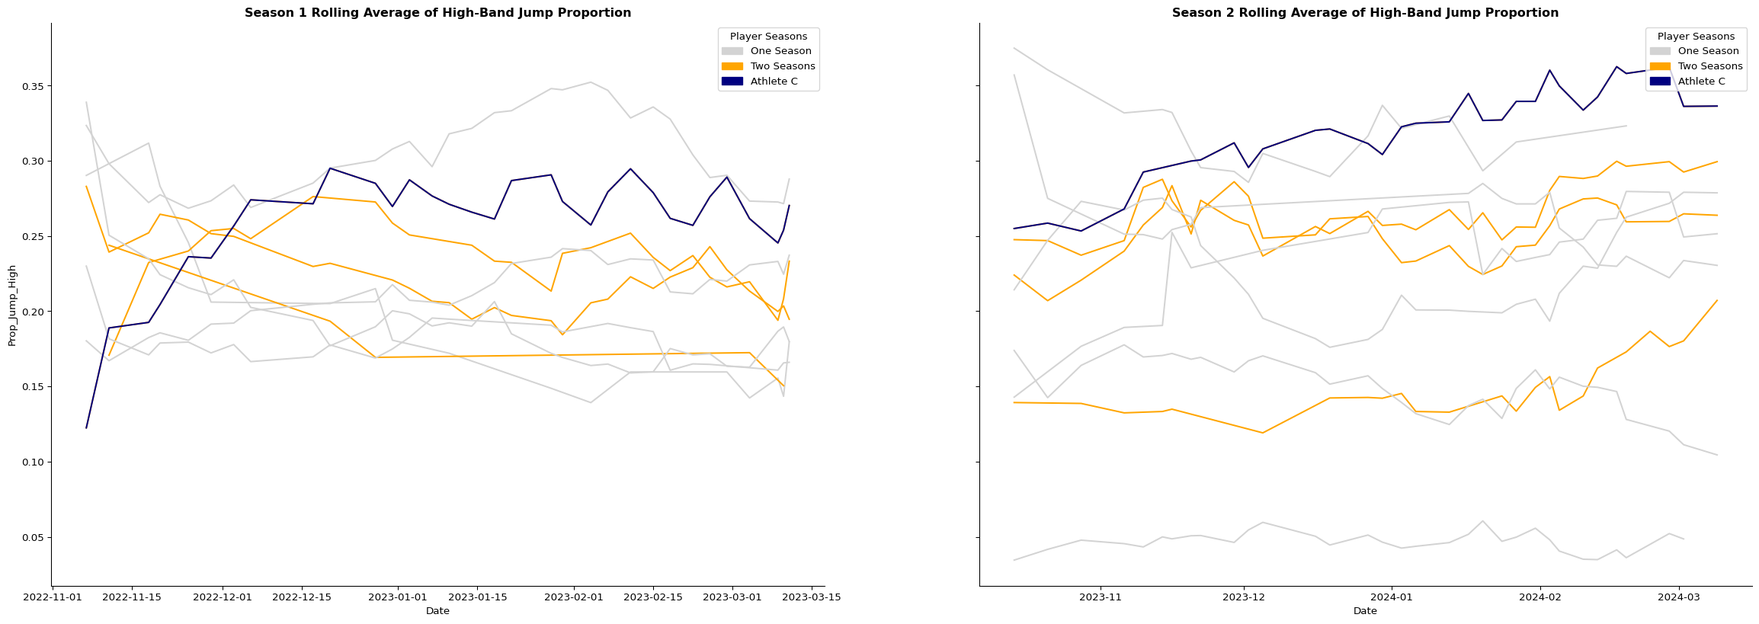
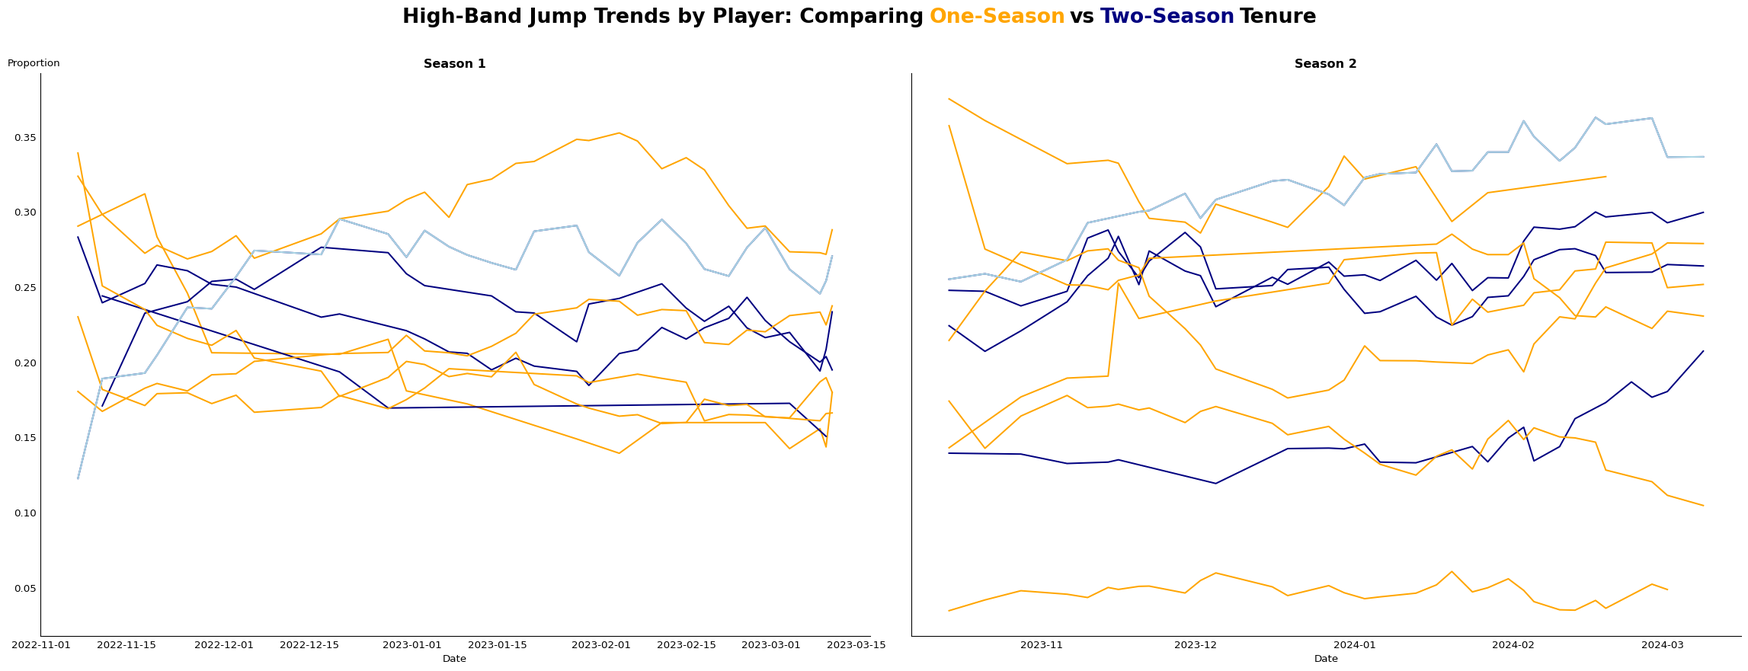
Scaffolding - Conor

diff --git a/docs/dataviz.html b/docs/dataviz.html
@@ -233,7 +233,7 @@ pre > code.sourceCode > span > a:first-child::before { text-decoration: underlin
 <h2 data-number="4.1" class="anchored" data-anchor-id="making-visualization-1"><span class="header-section-number">4.1</span> Making Visualization 1</h2>
 <section id="getting-rolling-averages-for-visualization-1" class="level3" data-number="4.1.1">
 <h3 data-number="4.1.1" class="anchored" data-anchor-id="getting-rolling-averages-for-visualization-1"><span class="header-section-number">4.1.1</span> Getting Rolling Averages for Visualization 1</h3>
-<div id="cde6a8c0" class="cell" data-execution_count="2">
+<div id="3c81bdf6" class="cell" data-execution_count="2">
 <div class="sourceCode cell-code" id="cb1"><pre class="sourceCode python code-with-copy"><code class="sourceCode python"><span id="cb1-1"><a href="#cb1-1" aria-hidden="true" tabindex="-1"></a><span class="co"># This code chunk retrieves the n-game (7-game) rolling average of proportion of low, med, and high band jumps</span></span>
 <span id="cb1-2"><a href="#cb1-2" aria-hidden="true" tabindex="-1"></a></span>
 <span id="cb1-3"><a href="#cb1-3" aria-hidden="true" tabindex="-1"></a><span class="co"># Empty list to hold rolling_averages data</span></span>
@@ -270,7 +270,7 @@ pre > code.sourceCode > span > a:first-child::before { text-decoration: underlin
 </section>
 <section id="creating-visualization-1-color-palette" class="level3" data-number="4.1.2">
 <h3 data-number="4.1.2" class="anchored" data-anchor-id="creating-visualization-1-color-palette"><span class="header-section-number">4.1.2</span> Creating Visualization 1 Color Palette</h3>
-<div id="005dfa91" class="cell" data-execution_count="3">
+<div id="8a6c58d2" class="cell" data-execution_count="3">
 <div class="sourceCode cell-code" id="cb2"><pre class="sourceCode python code-with-copy"><code class="sourceCode python"><span id="cb2-1"><a href="#cb2-1" aria-hidden="true" tabindex="-1"></a><span class="co"># Getting the number of seasons per player, and getting a list of players who are in both seasons</span></span>
 <span id="cb2-2"><a href="#cb2-2" aria-hidden="true" tabindex="-1"></a>players_seasons <span class="op">=</span> rolling_df.groupby(<span class="st">'About'</span>)[<span class="st">'Season'</span>].nunique()</span>
 <span id="cb2-3"><a href="#cb2-3" aria-hidden="true" tabindex="-1"></a>players_in_both <span class="op">=</span> players_seasons[players_seasons <span class="op">&gt;</span> <span class="dv">1</span>].index.tolist()</span>
@@ -279,12 +279,12 @@ pre > code.sourceCode > span > a:first-child::before { text-decoration: underlin
 <span id="cb2-6"><a href="#cb2-6" aria-hidden="true" tabindex="-1"></a>players <span class="op">=</span> rolling_df[<span class="st">'About'</span>].unique()</span>
 <span id="cb2-7"><a href="#cb2-7" aria-hidden="true" tabindex="-1"></a></span>
 <span id="cb2-8"><a href="#cb2-8" aria-hidden="true" tabindex="-1"></a><span class="co"># Making a palette where players in 1 season are orange, and players in 2 seasons are navy</span></span>
-<span id="cb2-9"><a href="#cb2-9" aria-hidden="true" tabindex="-1"></a>palette <span class="op">=</span> {player : (<span class="st">'orange'</span> <span class="cf">if</span> player <span class="kw">in</span> players_in_both <span class="cf">else</span> <span class="st">'lightgray'</span>) <span class="cf">for</span> player <span class="kw">in</span> players}</span></code><button title="Copy to Clipboard" class="code-copy-button"><i class="bi"></i></button></pre></div>
+<span id="cb2-9"><a href="#cb2-9" aria-hidden="true" tabindex="-1"></a>palette <span class="op">=</span> {player : (<span class="st">'navy'</span> <span class="cf">if</span> player <span class="kw">in</span> players_in_both <span class="cf">else</span> <span class="st">'orange'</span>) <span class="cf">for</span> player <span class="kw">in</span> players}</span></code><button title="Copy to Clipboard" class="code-copy-button"><i class="bi"></i></button></pre></div>
 </div>
 </section>
 <section id="generating-and-saving-visualization-1" class="level3" data-number="4.1.3">
 <h3 data-number="4.1.3" class="anchored" data-anchor-id="generating-and-saving-visualization-1"><span class="header-section-number">4.1.3</span> Generating and Saving Visualization 1</h3>
-<div id="8c4479e4" class="cell" data-execution_count="4">
+<div id="e35b22dd" class="cell" data-execution_count="4">
 <div class="sourceCode cell-code" id="cb3"><pre class="sourceCode python code-with-copy"><code class="sourceCode python"><span id="cb3-1"><a href="#cb3-1" aria-hidden="true" tabindex="-1"></a><span class="co"># Creating Figure and Flattening Axes</span></span>
 <span id="cb3-2"><a href="#cb3-2" aria-hidden="true" tabindex="-1"></a>fig, axs <span class="op">=</span> plt.subplots(<span class="dv">1</span>, <span class="dv">2</span>, figsize <span class="op">=</span> (<span class="dv">30</span>, <span class="dv">10</span>), sharey <span class="op">=</span> <span class="va">True</span>)</span>
 <span id="cb3-3"><a href="#cb3-3" aria-hidden="true" tabindex="-1"></a>axs <span class="op">=</span> axs.flatten()</span>
@@ -293,24 +293,28 @@ pre > code.sourceCode > span > a:first-child::before { text-decoration: underlin
 <span id="cb3-6"><a href="#cb3-6" aria-hidden="true" tabindex="-1"></a><span class="cf">for</span> ax, season <span class="kw">in</span> <span class="bu">zip</span>(axs, [<span class="dv">1</span>, <span class="dv">2</span>]):</span>
 <span id="cb3-7"><a href="#cb3-7" aria-hidden="true" tabindex="-1"></a>    <span class="co"># Making plot of proportion of jumps in high band by player, for each season</span></span>
 <span id="cb3-8"><a href="#cb3-8" aria-hidden="true" tabindex="-1"></a>    plot <span class="op">=</span> sns.lineplot(data <span class="op">=</span> rolling_df[rolling_df[<span class="st">"Season"</span>] <span class="op">==</span> season], x <span class="op">=</span> <span class="st">'Date'</span>, y <span class="op">=</span> <span class="st">"Prop_Jump_High"</span>, hue <span class="op">=</span> <span class="st">"About"</span>, palette <span class="op">=</span> palette, ax <span class="op">=</span> ax)</span>
-<span id="cb3-9"><a href="#cb3-9" aria-hidden="true" tabindex="-1"></a>    plot_c <span class="op">=</span> sns.lineplot(data <span class="op">=</span> rolling_df[(rolling_df[<span class="st">"Season"</span>] <span class="op">==</span> season) <span class="op">&amp;</span> (rolling_df[<span class="st">"About"</span>] <span class="op">==</span> <span class="st">"Athlete C"</span>)], x <span class="op">=</span> <span class="st">"Date"</span>, y <span class="op">=</span> <span class="st">"Prop_Jump_High"</span>, color <span class="op">=</span> <span class="st">'navy'</span>, ax <span class="op">=</span> ax)</span>
-<span id="cb3-10"><a href="#cb3-10" aria-hidden="true" tabindex="-1"></a>    ax.set_title(<span class="ss">f"Season </span><span class="sc">{</span>season<span class="sc">}</span><span class="ss"> Rolling Average of High-Band Jump Proportion"</span>, weight <span class="op">=</span> <span class="st">'bold'</span>)</span>
-<span id="cb3-11"><a href="#cb3-11" aria-hidden="true" tabindex="-1"></a>    sns.despine(top <span class="op">=</span> <span class="va">True</span>, right <span class="op">=</span> <span class="va">True</span>, ax <span class="op">=</span> ax)</span>
-<span id="cb3-12"><a href="#cb3-12" aria-hidden="true" tabindex="-1"></a></span>
-<span id="cb3-13"><a href="#cb3-13" aria-hidden="true" tabindex="-1"></a>one_season_patch <span class="op">=</span> mpatches.Patch(color <span class="op">=</span> <span class="st">'lightgray'</span>, label <span class="op">=</span> <span class="st">'One Season'</span>)</span>
-<span id="cb3-14"><a href="#cb3-14" aria-hidden="true" tabindex="-1"></a>two_season_patch <span class="op">=</span> mpatches.Patch(color <span class="op">=</span> <span class="st">'orange'</span>, label <span class="op">=</span> <span class="st">'Two Seasons'</span>)</span>
-<span id="cb3-15"><a href="#cb3-15" aria-hidden="true" tabindex="-1"></a>athlete_c_patch <span class="op">=</span> mpatches.Patch(color <span class="op">=</span> <span class="st">"navy"</span>, label <span class="op">=</span> <span class="st">"Athlete C"</span>)</span>
+<span id="cb3-9"><a href="#cb3-9" aria-hidden="true" tabindex="-1"></a>    plot_c <span class="op">=</span> sns.lineplot(data <span class="op">=</span> rolling_df[(rolling_df[<span class="st">"Season"</span>] <span class="op">==</span> season) <span class="op">&amp;</span> (rolling_df[<span class="st">"About"</span>] <span class="op">==</span> <span class="st">"Athlete C"</span>)], x <span class="op">=</span> <span class="st">"Date"</span>, y <span class="op">=</span> <span class="st">"Prop_Jump_High"</span>, color <span class="op">=</span> <span class="st">'lightblue'</span>, ax <span class="op">=</span> ax)</span>
+<span id="cb3-10"><a href="#cb3-10" aria-hidden="true" tabindex="-1"></a>    ax.set_title(<span class="ss">f"Season </span><span class="sc">{</span>season<span class="sc">}</span><span class="ss">"</span>, weight <span class="op">=</span> <span class="st">'bold'</span>)</span>
+<span id="cb3-11"><a href="#cb3-11" aria-hidden="true" tabindex="-1"></a>    ax.set_ylabel(<span class="st">''</span>)<span class="co"># Proportion of High-Band Jumps</span></span>
+<span id="cb3-12"><a href="#cb3-12" aria-hidden="true" tabindex="-1"></a>    ax.legend_.remove()</span>
+<span id="cb3-13"><a href="#cb3-13" aria-hidden="true" tabindex="-1"></a>    sns.despine(ax<span class="op">=</span>ax, top<span class="op">=</span><span class="va">True</span>, right<span class="op">=</span><span class="va">True</span>, left<span class="op">=</span><span class="va">False</span>, bottom<span class="op">=</span><span class="va">False</span>)</span>
+<span id="cb3-14"><a href="#cb3-14" aria-hidden="true" tabindex="-1"></a>    ax.tick_params(axis<span class="op">=</span><span class="st">'both'</span>, which<span class="op">=</span><span class="st">'both'</span>, length<span class="op">=</span><span class="dv">0</span>, width<span class="op">=</span><span class="dv">0</span>)</span>
+<span id="cb3-15"><a href="#cb3-15" aria-hidden="true" tabindex="-1"></a></span>
 <span id="cb3-16"><a href="#cb3-16" aria-hidden="true" tabindex="-1"></a></span>
-<span id="cb3-17"><a href="#cb3-17" aria-hidden="true" tabindex="-1"></a><span class="cf">for</span> ax <span class="kw">in</span> axs:</span>
-<span id="cb3-18"><a href="#cb3-18" aria-hidden="true" tabindex="-1"></a>    ax.legend(handles <span class="op">=</span> [one_season_patch, two_season_patch, athlete_c_patch], title <span class="op">=</span> <span class="st">'Player Seasons'</span>, loc <span class="op">=</span> <span class="st">'upper right'</span>)</span>
-<span id="cb3-19"><a href="#cb3-19" aria-hidden="true" tabindex="-1"></a></span>
-<span id="cb3-20"><a href="#cb3-20" aria-hidden="true" tabindex="-1"></a><span class="co"># Showing plots</span></span>
-<span id="cb3-21"><a href="#cb3-21" aria-hidden="true" tabindex="-1"></a>plt.savefig(<span class="st">"./images/viz_1.png"</span>, bbox_inches<span class="op">=</span><span class="st">'tight'</span>)</span>
-<span id="cb3-22"><a href="#cb3-22" aria-hidden="true" tabindex="-1"></a>plt.show()</span></code><button title="Copy to Clipboard" class="code-copy-button"><i class="bi"></i></button></pre></div>
+<span id="cb3-17"><a href="#cb3-17" aria-hidden="true" tabindex="-1"></a><span class="co"># Showing plots</span></span>
+<span id="cb3-18"><a href="#cb3-18" aria-hidden="true" tabindex="-1"></a>fig.text(<span class="fl">0.29</span>, <span class="fl">0.95</span>, <span class="st">'High-Band Jump Trends by Player: Comparing'</span>, fontsize<span class="op">=</span><span class="dv">20</span>, rotation<span class="op">=</span><span class="st">'horizontal'</span>, weight<span class="op">=</span><span class="st">'bold'</span>)</span>
+<span id="cb3-19"><a href="#cb3-19" aria-hidden="true" tabindex="-1"></a>fig.text(<span class="fl">0.53</span>, <span class="fl">0.95</span>, <span class="st">'One-Season'</span>, fontsize<span class="op">=</span><span class="dv">20</span>, rotation<span class="op">=</span><span class="st">'horizontal'</span>, weight<span class="op">=</span><span class="st">'bold'</span>, color<span class="op">=</span><span class="st">'orange'</span>)</span>
+<span id="cb3-20"><a href="#cb3-20" aria-hidden="true" tabindex="-1"></a>fig.text(<span class="fl">0.594</span>, <span class="fl">0.95</span>, <span class="st">'vs'</span>, fontsize<span class="op">=</span><span class="dv">20</span>, rotation<span class="op">=</span><span class="st">'horizontal'</span>, weight<span class="op">=</span><span class="st">'bold'</span>)</span>
+<span id="cb3-21"><a href="#cb3-21" aria-hidden="true" tabindex="-1"></a>fig.text(<span class="fl">0.608</span>, <span class="fl">0.95</span>, <span class="st">'Two-Season'</span>, fontsize<span class="op">=</span><span class="dv">20</span>, rotation<span class="op">=</span><span class="st">'horizontal'</span>, weight<span class="op">=</span><span class="st">'bold'</span>, color<span class="op">=</span><span class="st">'navy'</span>)</span>
+<span id="cb3-22"><a href="#cb3-22" aria-hidden="true" tabindex="-1"></a>fig.text(<span class="fl">0.6715</span>, <span class="fl">0.95</span>, <span class="st">'Tenure'</span>, fontsize<span class="op">=</span><span class="dv">20</span>, rotation<span class="op">=</span><span class="st">'horizontal'</span>, weight<span class="op">=</span><span class="st">'bold'</span>)</span>
+<span id="cb3-23"><a href="#cb3-23" aria-hidden="true" tabindex="-1"></a>fig.text(<span class="fl">0.11</span>, <span class="fl">0.89</span>, <span class="st">'Proportion'</span>, fontsize<span class="op">=</span><span class="dv">10</span>, rotation<span class="op">=</span><span class="st">'horizontal'</span>, weight<span class="op">=</span><span class="st">'normal'</span>)</span>
+<span id="cb3-24"><a href="#cb3-24" aria-hidden="true" tabindex="-1"></a>plt.subplots_adjust(wspace<span class="op">=</span><span class="fl">0.05</span>)  <span class="co"># Decrease this value to move subplots closer</span></span>
+<span id="cb3-25"><a href="#cb3-25" aria-hidden="true" tabindex="-1"></a>plt.savefig(<span class="st">"./images/viz_1.png"</span>, bbox_inches<span class="op">=</span><span class="st">'tight'</span>)</span>
+<span id="cb3-26"><a href="#cb3-26" aria-hidden="true" tabindex="-1"></a>plt.show()</span></code><button title="Copy to Clipboard" class="code-copy-button"><i class="bi"></i></button></pre></div>
 <div class="cell-output cell-output-display">
 <div>
 <figure class="figure">
-<p><img src="dataviz_files/figure-html/cell-5-output-1.png" width="2309" height="819" class="figure-img"></p>
+<p><img src="dataviz_files/figure-html/cell-5-output-1.png" width="2294" height="882" class="figure-img"></p>
 </figure>
 </div>
 </div>
@@ -321,7 +325,7 @@ pre > code.sourceCode > span > a:first-child::before { text-decoration: underlin
 <h2 data-number="4.2" class="anchored" data-anchor-id="making-visualization-2"><span class="header-section-number">4.2</span> Making Visualization 2</h2>
 <section id="creating-adjusted_day-variable" class="level3" data-number="4.2.1">
 <h3 data-number="4.2.1" class="anchored" data-anchor-id="creating-adjusted_day-variable"><span class="header-section-number">4.2.1</span> Creating “Adjusted_Day” Variable</h3>
-<div id="2eee2d6e" class="cell" data-execution_count="5">
+<div id="a19fff46" class="cell" data-execution_count="5">
 <div class="sourceCode cell-code" id="cb4"><pre class="sourceCode python code-with-copy"><code class="sourceCode python"><span id="cb4-1"><a href="#cb4-1" aria-hidden="true" tabindex="-1"></a><span class="co"># Making a new variable which tells whether or not the player is in both seasons or just one</span></span>
 <span id="cb4-2"><a href="#cb4-2" aria-hidden="true" tabindex="-1"></a>rolling_df[<span class="st">'Player_Group'</span>] <span class="op">=</span> rolling_df[<span class="st">'About'</span>].<span class="bu">apply</span>(<span class="kw">lambda</span> x: <span class="st">'both_seasons'</span> <span class="cf">if</span> x <span class="kw">in</span> players_in_both <span class="cf">else</span> <span class="st">'one_season'</span>)</span>
 <span id="cb4-3"><a href="#cb4-3" aria-hidden="true" tabindex="-1"></a></span>
@@ -348,7 +352,7 @@ pre > code.sourceCode > span > a:first-child::before { text-decoration: underlin
 </section>
 <section id="generating-and-saving-visualization-2" class="level3" data-number="4.2.2">
 <h3 data-number="4.2.2" class="anchored" data-anchor-id="generating-and-saving-visualization-2"><span class="header-section-number">4.2.2</span> Generating and Saving Visualization 2</h3>
-<div id="503adaa1" class="cell" data-execution_count="6">
+<div id="32702f44" class="cell" data-execution_count="6">
 <div class="sourceCode cell-code" id="cb5"><pre class="sourceCode python code-with-copy"><code class="sourceCode python"><span id="cb5-1"><a href="#cb5-1" aria-hidden="true" tabindex="-1"></a><span class="co"># Filter for Athlete C</span></span>
 <span id="cb5-2"><a href="#cb5-2" aria-hidden="true" tabindex="-1"></a>Athlete_C <span class="op">=</span> rolling_df[rolling_df[<span class="st">"About"</span>] <span class="op">==</span> <span class="st">"Athlete C"</span>]</span>
 <span id="cb5-3"><a href="#cb5-3" aria-hidden="true" tabindex="-1"></a></span>
@@ -395,14 +399,14 @@ pre > code.sourceCode > span > a:first-child::before { text-decoration: underlin
 <h2 data-number="4.3" class="anchored" data-anchor-id="making-visualization-3"><span class="header-section-number">4.3</span> Making Visualization 3</h2>
 <section id="getting-daily-averages" class="level3" data-number="4.3.1">
 <h3 data-number="4.3.1" class="anchored" data-anchor-id="getting-daily-averages"><span class="header-section-number">4.3.1</span> Getting Daily Averages</h3>
-<div id="590c2fdd" class="cell" data-execution_count="7">
+<div id="0a7a0e62" class="cell" data-execution_count="7">
 <div class="sourceCode cell-code" id="cb6"><pre class="sourceCode python code-with-copy"><code class="sourceCode python"><span id="cb6-1"><a href="#cb6-1" aria-hidden="true" tabindex="-1"></a><span class="co"># Grouping by day of the season and whether or not the player was in both seasons, then taking the mean of the prop_jump_high</span></span>
 <span id="cb6-2"><a href="#cb6-2" aria-hidden="true" tabindex="-1"></a>daily_means <span class="op">=</span> rolling_df.groupby([<span class="st">'Adjusted_Day'</span>, <span class="st">'Player_Group'</span>])[<span class="st">'Prop_Jump_High'</span>].mean().reset_index()</span></code><button title="Copy to Clipboard" class="code-copy-button"><i class="bi"></i></button></pre></div>
 </div>
 </section>
 <section id="getting-regression-lines-for-1-and-2-season-players" class="level3" data-number="4.3.2">
 <h3 data-number="4.3.2" class="anchored" data-anchor-id="getting-regression-lines-for-1-and-2-season-players"><span class="header-section-number">4.3.2</span> Getting Regression Lines for 1 and 2 Season Players</h3>
-<div id="edeb7962" class="cell" data-execution_count="8">
+<div id="728273ef" class="cell" data-execution_count="8">
 <div class="sourceCode cell-code" id="cb7"><pre class="sourceCode python code-with-copy"><code class="sourceCode python"><span id="cb7-1"><a href="#cb7-1" aria-hidden="true" tabindex="-1"></a><span class="co"># Making a dataframe to hold the required linear regression values</span></span>
 <span id="cb7-2"><a href="#cb7-2" aria-hidden="true" tabindex="-1"></a>linreg_df <span class="op">=</span> pd.DataFrame(columns<span class="op">=</span>[<span class="st">"Player_Group"</span>, <span class="st">"Slope"</span>, <span class="st">"Intercept"</span>, <span class="st">"R-value"</span>])</span>
 <span id="cb7-3"><a href="#cb7-3" aria-hidden="true" tabindex="-1"></a></span>
@@ -457,7 +461,7 @@ pre > code.sourceCode > span > a:first-child::before { text-decoration: underlin
 </section>
 <section id="generating-and-saving-visualization-3" class="level3" data-number="4.3.3">
 <h3 data-number="4.3.3" class="anchored" data-anchor-id="generating-and-saving-visualization-3"><span class="header-section-number">4.3.3</span> Generating and Saving Visualization 3</h3>
-<div id="437ac205" class="cell" data-execution_count="9">
+<div id="44246e3c" class="cell" data-execution_count="9">
 <div class="sourceCode cell-code" id="cb8"><pre class="sourceCode python code-with-copy"><code class="sourceCode python"><span id="cb8-1"><a href="#cb8-1" aria-hidden="true" tabindex="-1"></a><span class="co"># Making palette for below plot</span></span>
 <span id="cb8-2"><a href="#cb8-2" aria-hidden="true" tabindex="-1"></a>palette <span class="op">=</span> {</span>
 <span id="cb8-3"><a href="#cb8-3" aria-hidden="true" tabindex="-1"></a>    <span class="st">"both_seasons"</span> : <span class="st">"navy"</span>,</span>

diff --git a/docs/eda.html b/docs/eda.html
@@ -218,7 +218,7 @@ pre > code.sourceCode > span > a:first-child::before { text-decoration: underlin
 
 <section id="descriptive-statistics" class="level2" data-number="3.1">
 <h2 data-number="3.1" class="anchored" data-anchor-id="descriptive-statistics"><span class="header-section-number">3.1</span> Descriptive Statistics</h2>
-<div id="94973e1e" class="cell" data-execution_count="2">
+<div id="3d9c58d6" class="cell" data-execution_count="2">
 <div class="sourceCode cell-code" id="cb1"><pre class="sourceCode python code-with-copy"><code class="sourceCode python"><span id="cb1-1"><a href="#cb1-1" aria-hidden="true" tabindex="-1"></a>data.iloc[:, :<span class="op">-</span><span class="dv">1</span>].describe()</span></code><button title="Copy to Clipboard" class="code-copy-button"><i class="bi"></i></button></pre></div>
 <div class="cell-output cell-output-display" data-execution_count="2">
 <div>
@@ -327,7 +327,7 @@ pre > code.sourceCode > span > a:first-child::before { text-decoration: underlin
 </section>
 <section id="distributions" class="level2" data-number="3.2">
 <h2 data-number="3.2" class="anchored" data-anchor-id="distributions"><span class="header-section-number">3.2</span> Distributions</h2>
-<div id="2635ae98" class="cell" data-execution_count="3">
+<div id="0a6fc9ff" class="cell" data-execution_count="3">
 <div class="sourceCode cell-code" id="cb2"><pre class="sourceCode python code-with-copy"><code class="sourceCode python"><span id="cb2-1"><a href="#cb2-1" aria-hidden="true" tabindex="-1"></a><span class="co"># Initializing Figure</span></span>
 <span id="cb2-2"><a href="#cb2-2" aria-hidden="true" tabindex="-1"></a>plt.figure(figsize <span class="op">=</span> (<span class="dv">10</span>, <span class="dv">6</span>))</span>
 <span id="cb2-3"><a href="#cb2-3" aria-hidden="true" tabindex="-1"></a></span>
@@ -349,7 +349,7 @@ pre > code.sourceCode > span > a:first-child::before { text-decoration: underlin
 </div>
 </div>
 </div>
-<div id="de139da6" class="cell" data-execution_count="4">
+<div id="5f186496" class="cell" data-execution_count="4">
 <div class="sourceCode cell-code" id="cb3"><pre class="sourceCode python code-with-copy"><code class="sourceCode python"><span id="cb3-1"><a href="#cb3-1" aria-hidden="true" tabindex="-1"></a><span class="co"># Initializing Figure</span></span>
 <span id="cb3-2"><a href="#cb3-2" aria-hidden="true" tabindex="-1"></a>plt.figure(figsize <span class="op">=</span> (<span class="dv">10</span>, <span class="dv">6</span>))</span>
 <span id="cb3-3"><a href="#cb3-3" aria-hidden="true" tabindex="-1"></a></span>
@@ -371,7 +371,7 @@ pre > code.sourceCode > span > a:first-child::before { text-decoration: underlin
 </div>
 </div>
 </div>
-<div id="e86a3b02" class="cell" data-execution_count="5">
+<div id="71d1f6a7" class="cell" data-execution_count="5">
 <div class="sourceCode cell-code" id="cb4"><pre class="sourceCode python code-with-copy"><code class="sourceCode python"><span id="cb4-1"><a href="#cb4-1" aria-hidden="true" tabindex="-1"></a><span class="co"># Initializing Figure</span></span>
 <span id="cb4-2"><a href="#cb4-2" aria-hidden="true" tabindex="-1"></a>plt.figure(figsize <span class="op">=</span> (<span class="dv">10</span>, <span class="dv">6</span>))</span>
 <span id="cb4-3"><a href="#cb4-3" aria-hidden="true" tabindex="-1"></a></span>
@@ -393,7 +393,7 @@ pre > code.sourceCode > span > a:first-child::before { text-decoration: underlin
 </div>
 </div>
 </div>
-<div id="7dd5e1f0" class="cell" data-execution_count="6">
+<div id="8c3c19c2" class="cell" data-execution_count="6">
 <div class="sourceCode cell-code" id="cb5"><pre class="sourceCode python code-with-copy"><code class="sourceCode python"><span id="cb5-1"><a href="#cb5-1" aria-hidden="true" tabindex="-1"></a><span class="co"># Initializing Figure</span></span>
 <span id="cb5-2"><a href="#cb5-2" aria-hidden="true" tabindex="-1"></a>plt.figure(figsize <span class="op">=</span> (<span class="dv">10</span>, <span class="dv">6</span>))</span>
 <span id="cb5-3"><a href="#cb5-3" aria-hidden="true" tabindex="-1"></a></span>
@@ -420,7 +420,7 @@ pre > code.sourceCode > span > a:first-child::before { text-decoration: underlin
 </section>
 <section id="change-over-time" class="level2" data-number="3.3">
 <h2 data-number="3.3" class="anchored" data-anchor-id="change-over-time"><span class="header-section-number">3.3</span> Change Over Time</h2>
-<div id="55711fd2" class="cell" data-execution_count="7">
+<div id="e8d80c8b" class="cell" data-execution_count="7">
 <div class="sourceCode cell-code" id="cb6"><pre class="sourceCode python code-with-copy"><code class="sourceCode python"><span id="cb6-1"><a href="#cb6-1" aria-hidden="true" tabindex="-1"></a><span class="co"># Melting dfs</span></span>
 <span id="cb6-2"><a href="#cb6-2" aria-hidden="true" tabindex="-1"></a>s1 <span class="op">=</span> data[data[<span class="st">"Season"</span>] <span class="op">==</span> <span class="dv">1</span>]</span>
 <span id="cb6-3"><a href="#cb6-3" aria-hidden="true" tabindex="-1"></a>s1_melted <span class="op">=</span> s1.melt(id_vars <span class="op">=</span> <span class="st">'Date'</span>, value_vars <span class="op">=</span> [<span class="st">'Prop_Jump_Low'</span>, <span class="st">'Prop_Jump_Med'</span>, <span class="st">'Prop_Jump_High'</span>], var_name <span class="op">=</span> <span class="st">'Jump Band'</span>, value_name <span class="op">=</span> <span class="st">'Proportion'</span>)</span>
@@ -456,7 +456,7 @@ pre > code.sourceCode > span > a:first-child::before { text-decoration: underlin
 </section>
 <section id="correlations" class="level2" data-number="3.4">
 <h2 data-number="3.4" class="anchored" data-anchor-id="correlations"><span class="header-section-number">3.4</span> Correlations</h2>
-<div id="318f614d" class="cell" data-execution_count="8">
+<div id="8598d069" class="cell" data-execution_count="8">
 <div class="sourceCode cell-code" id="cb7"><pre class="sourceCode python code-with-copy"><code class="sourceCode python"><span id="cb7-1"><a href="#cb7-1" aria-hidden="true" tabindex="-1"></a><span class="co"># Making figure</span></span>
 <span id="cb7-2"><a href="#cb7-2" aria-hidden="true" tabindex="-1"></a>plt.figure()</span>
 <span id="cb7-3"><a href="#cb7-3" aria-hidden="true" tabindex="-1"></a></span>

diff --git a/docs/datacleaning.html b/docs/datacleaning.html
@@ -224,7 +224,7 @@ pre > code.sourceCode > span > a:first-child::before { text-decoration: underlin
 <section id="loading-in-the-data" class="level2" data-number="2.2">
 <h2 data-number="2.2" class="anchored" data-anchor-id="loading-in-the-data"><span class="header-section-number">2.2</span> Loading in the Data</h2>
 <p>This code chunk loads in the catapult data for each season from the data folder. Then, data from each season is marked with a season indicator column, before being combined into a single dataset. Next, the columns of the data are limited to the variables relevant for this study.</p>
-<div id="946880fa" class="cell" data-message="false" data-execution_count="1">
+<div id="32ee9e7d" class="cell" data-message="false" data-execution_count="1">
 <div class="sourceCode cell-code" id="cb1"><pre class="sourceCode python code-with-copy"><code class="sourceCode python"><span id="cb1-1"><a href="#cb1-1" aria-hidden="true" tabindex="-1"></a><span class="co"># Imports</span></span>
 <span id="cb1-2"><a href="#cb1-2" aria-hidden="true" tabindex="-1"></a><span class="im">import</span> numpy <span class="im">as</span> np</span>
 <span id="cb1-3"><a href="#cb1-3" aria-hidden="true" tabindex="-1"></a><span class="im">import</span> pandas <span class="im">as</span> pd</span>
@@ -292,7 +292,7 @@ pre > code.sourceCode > span > a:first-child::before { text-decoration: underlin
 <section id="selecting-the-game-data" class="level2" data-number="2.3">
 <h2 data-number="2.3" class="anchored" data-anchor-id="selecting-the-game-data"><span class="header-section-number">2.3</span> Selecting the Game Data</h2>
 <p>Next, the dataset is limited to include only data from game periods. Overtime periods are removed from the data as well, to standardize the game length to two halves.</p>
-<div id="7e43bd6a" class="cell" data-execution_count="2">
+<div id="db5ecc4c" class="cell" data-execution_count="2">
 <div class="sourceCode cell-code" id="cb2"><pre class="sourceCode python code-with-copy"><code class="sourceCode python"><span id="cb2-1"><a href="#cb2-1" aria-hidden="true" tabindex="-1"></a><span class="co"># Filtering to include 'Period' - the keyword for game periods</span></span>
 <span id="cb2-2"><a href="#cb2-2" aria-hidden="true" tabindex="-1"></a>games <span class="op">=</span> data[data[<span class="st">"Period"</span>].<span class="bu">str</span>.contains(<span class="st">"Period"</span>) <span class="op">==</span> <span class="va">True</span>]</span>
 <span id="cb2-3"><a href="#cb2-3" aria-hidden="true" tabindex="-1"></a></span>
@@ -359,7 +359,7 @@ pre > code.sourceCode > span > a:first-child::before { text-decoration: underlin
 <section id="aggregating-statistics" class="level2" data-number="2.4">
 <h2 data-number="2.4" class="anchored" data-anchor-id="aggregating-statistics"><span class="header-section-number">2.4</span> Aggregating Statistics</h2>
 <p>In its original format, the data for each game is split between halves. This code chunk limits the data to include only games where the player plays both halves, then properly aggregates the stats from the two halves into a single game value.</p>
-<div id="fdd3bd77" class="cell" data-execution_count="3">
+<div id="6f873b97" class="cell" data-execution_count="3">
 <div class="sourceCode cell-code" id="cb3"><pre class="sourceCode python code-with-copy"><code class="sourceCode python"><span id="cb3-1"><a href="#cb3-1" aria-hidden="true" tabindex="-1"></a><span class="co"># Number of halves by player by date. This will be used to filter out games where the player played only  1 half </span></span>
 <span id="cb3-2"><a href="#cb3-2" aria-hidden="true" tabindex="-1"></a>half_counts <span class="op">=</span> games.groupby([<span class="st">'Date'</span>, <span class="st">'About'</span>, <span class="st">'Season'</span>])[<span class="st">'Period'</span>].count().reset_index(name <span class="op">=</span> <span class="st">'Half Count'</span>)</span>
 <span id="cb3-3"><a href="#cb3-3" aria-hidden="true" tabindex="-1"></a></span>
@@ -424,7 +424,7 @@ pre > code.sourceCode > span > a:first-child::before { text-decoration: underlin
 <section id="finalizing-the-dataset" class="level2" data-number="2.5">
 <h2 data-number="2.5" class="anchored" data-anchor-id="finalizing-the-dataset"><span class="header-section-number">2.5</span> Finalizing the Dataset</h2>
 <p>Lastly, proportion versions of the cumulative statistics tracked by Catapult were added to the data set. Because playing time varies greatly by player, using cumulative totals would have been misleading, so this allows for the proportion of each statistic to be examined. The final data set is then saved into the data folder to be used for EDA and visualization.</p>
-<div id="52c6befa" class="cell" data-execution_count="4">
+<div id="c0e2034e" class="cell" data-execution_count="4">
 <div class="sourceCode cell-code" id="cb4"><pre class="sourceCode python code-with-copy"><code class="sourceCode python"><span id="cb4-1"><a href="#cb4-1" aria-hidden="true" tabindex="-1"></a><span class="co"># Reassigning the main data frame as the working games df</span></span>
 <span id="cb4-2"><a href="#cb4-2" aria-hidden="true" tabindex="-1"></a>data <span class="op">=</span> games_agg</span>
 <span id="cb4-3"><a href="#cb4-3" aria-hidden="true" tabindex="-1"></a></span>
